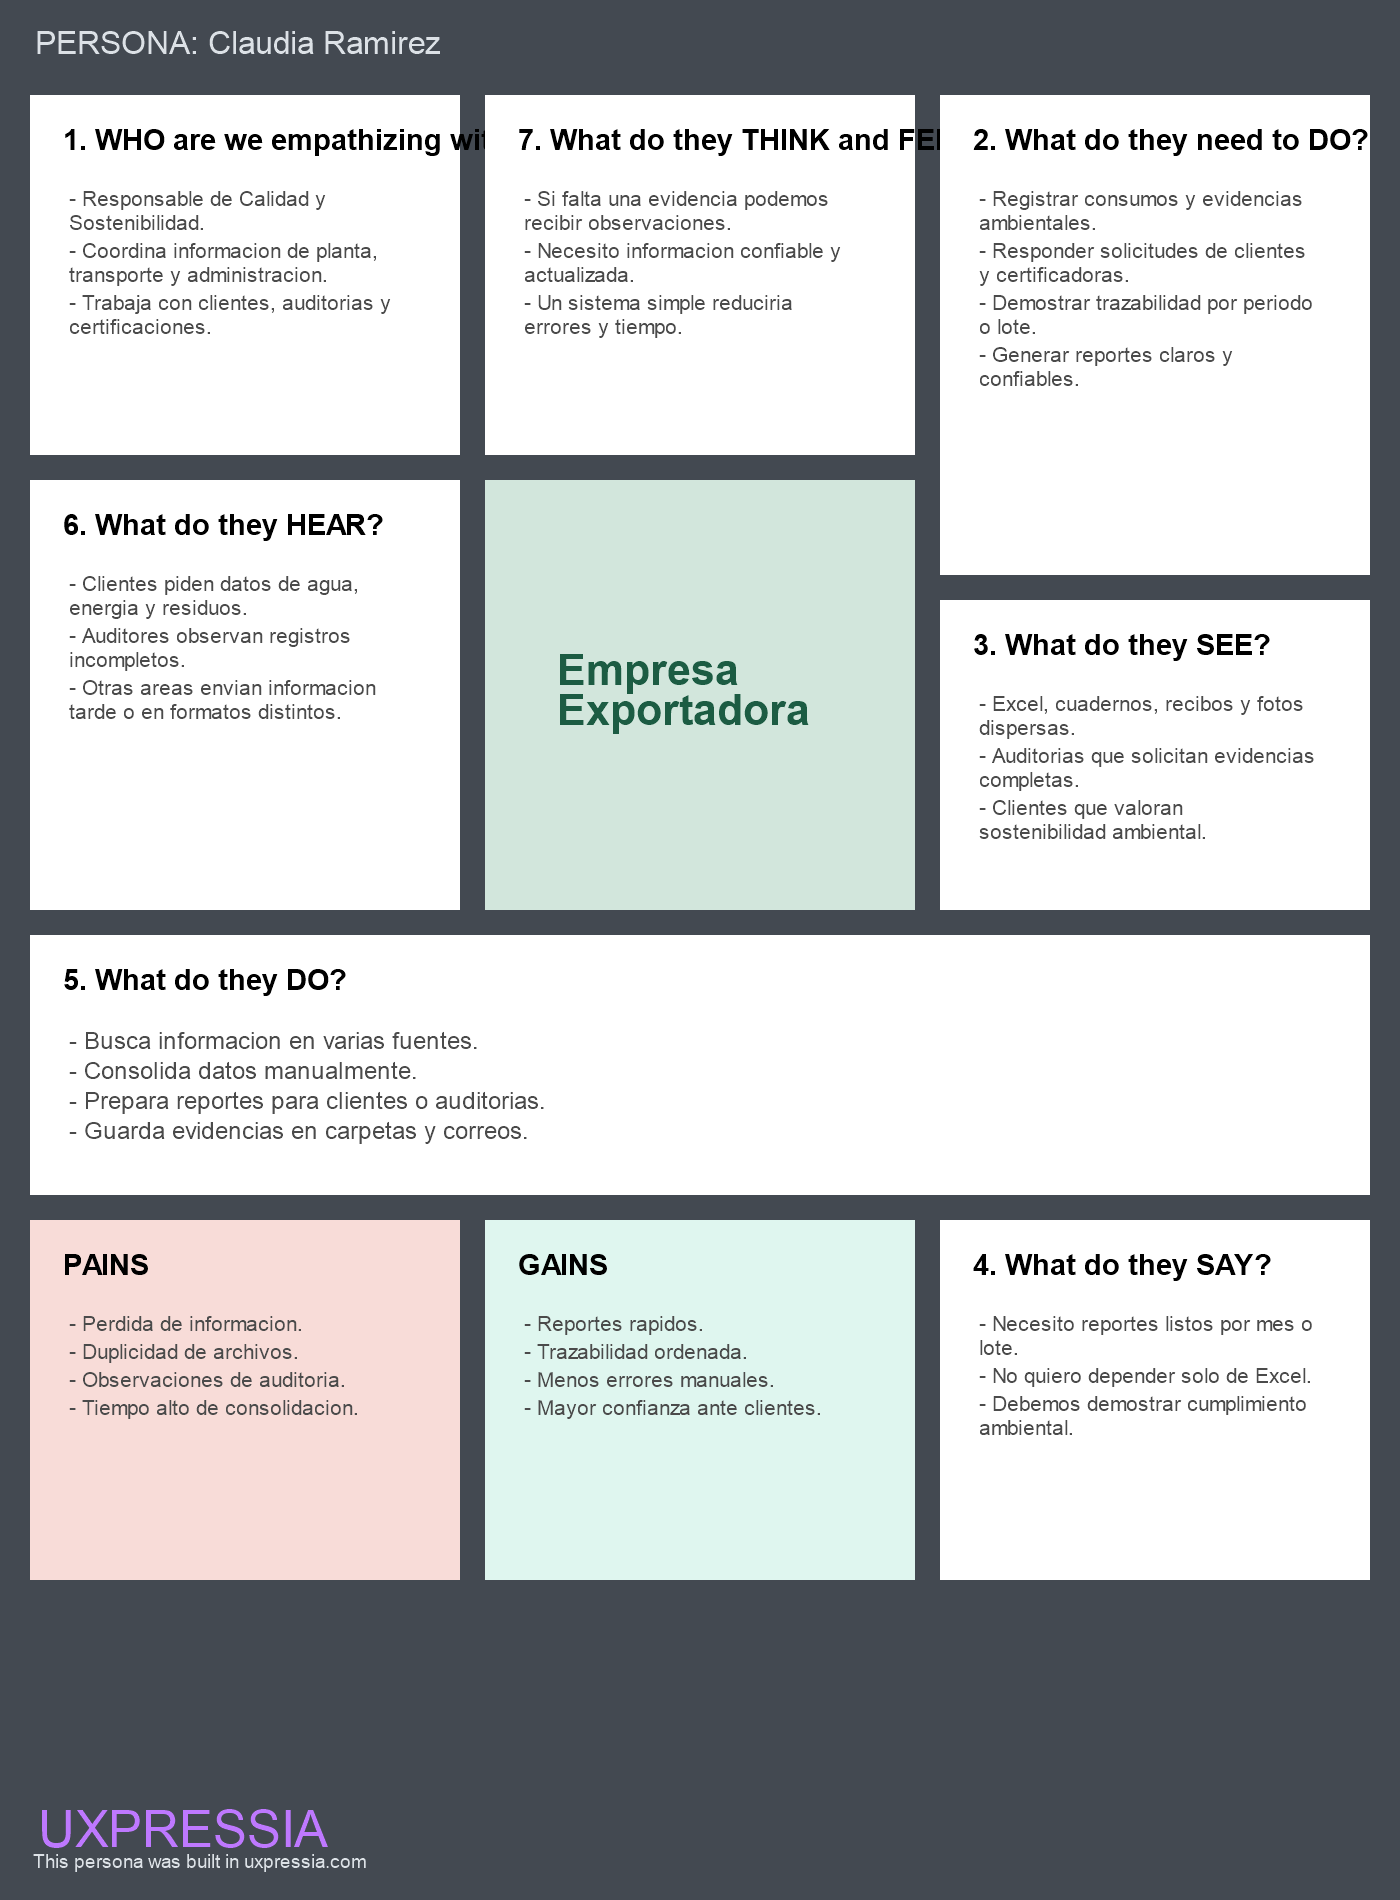
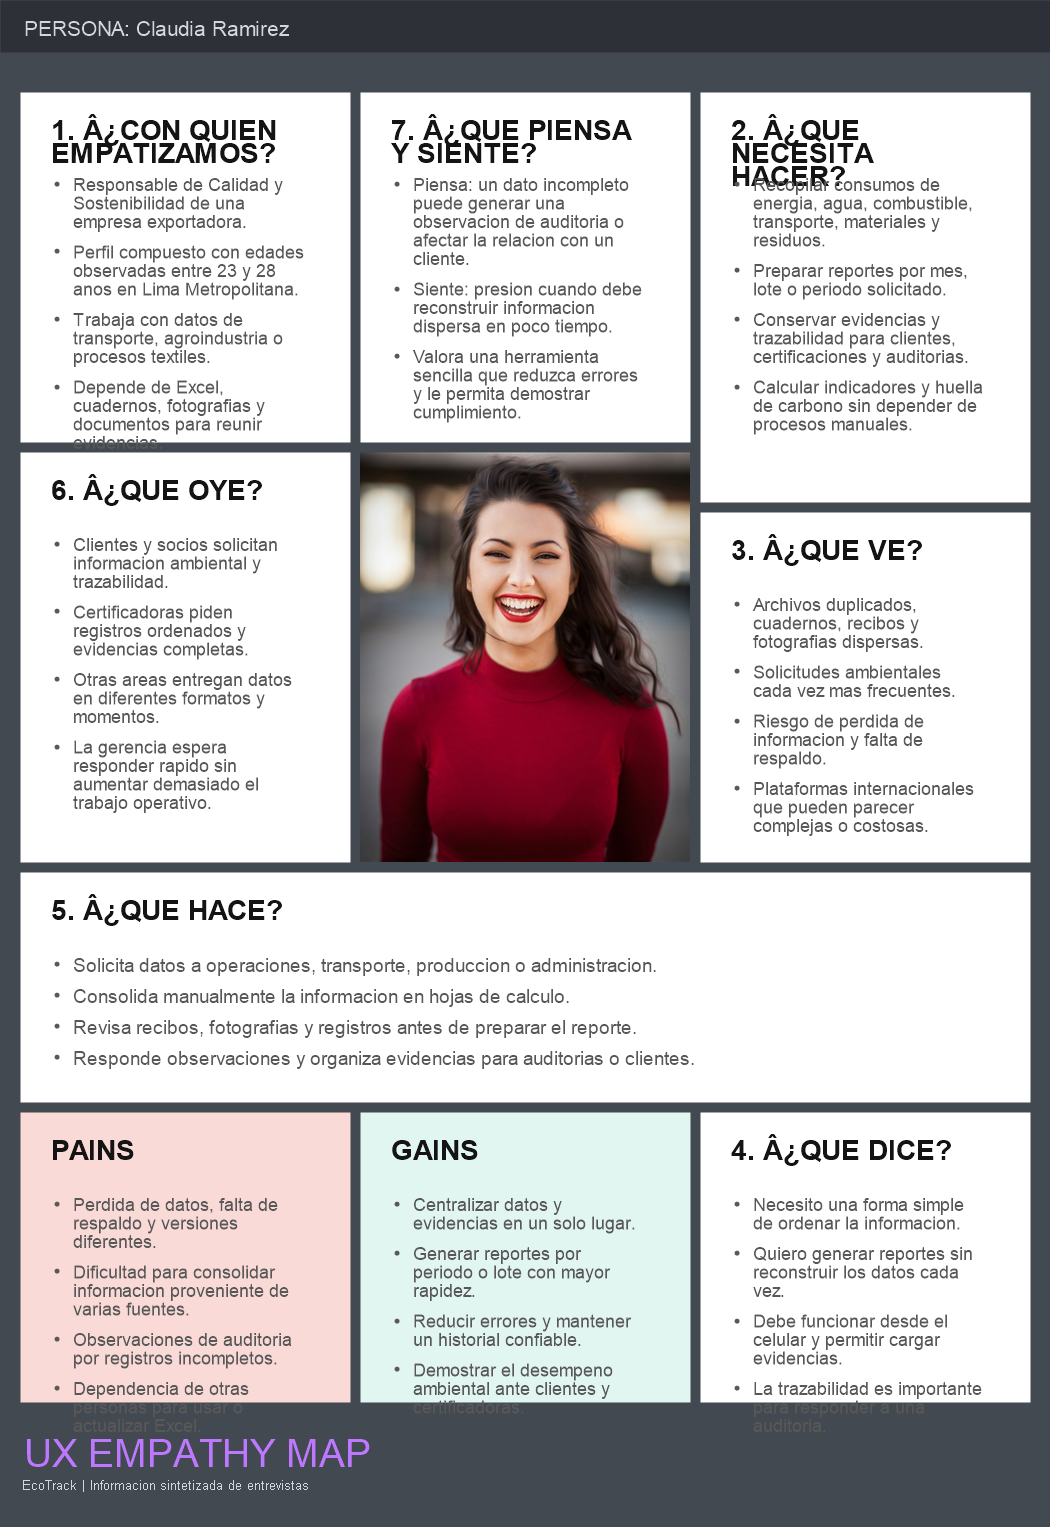
docs(chapter-02): redesign empathy maps

diff --git a/README.md b/README.md
@@ -913,7 +913,7 @@ A continuacion, se presentan los User Journey Maps de ambos segmentos. Cada mapa
 
 ### 2.3.4. Empathy Mapping.
 
-El Mapa de Empatia sintetiza las observaciones e impresiones recopiladas durante las entrevistas, permitiendo profundizar en los aspectos emocionales y actitudinales de los dos segmentos de usuario objetivo de EcoTrack.
+El Mapa de Empatia sintetiza las observaciones de las entrevistas mediante siete preguntas: con quien se empatiza, que necesita hacer, que ve, que dice, que hace, que oye y que piensa o siente. Cada mapa tambien presenta los pains y gains del segmento correspondiente.
 
 #### Empathy Map 1: Responsable de Calidad y Sostenibilidad (Empresa exportadora)
 
